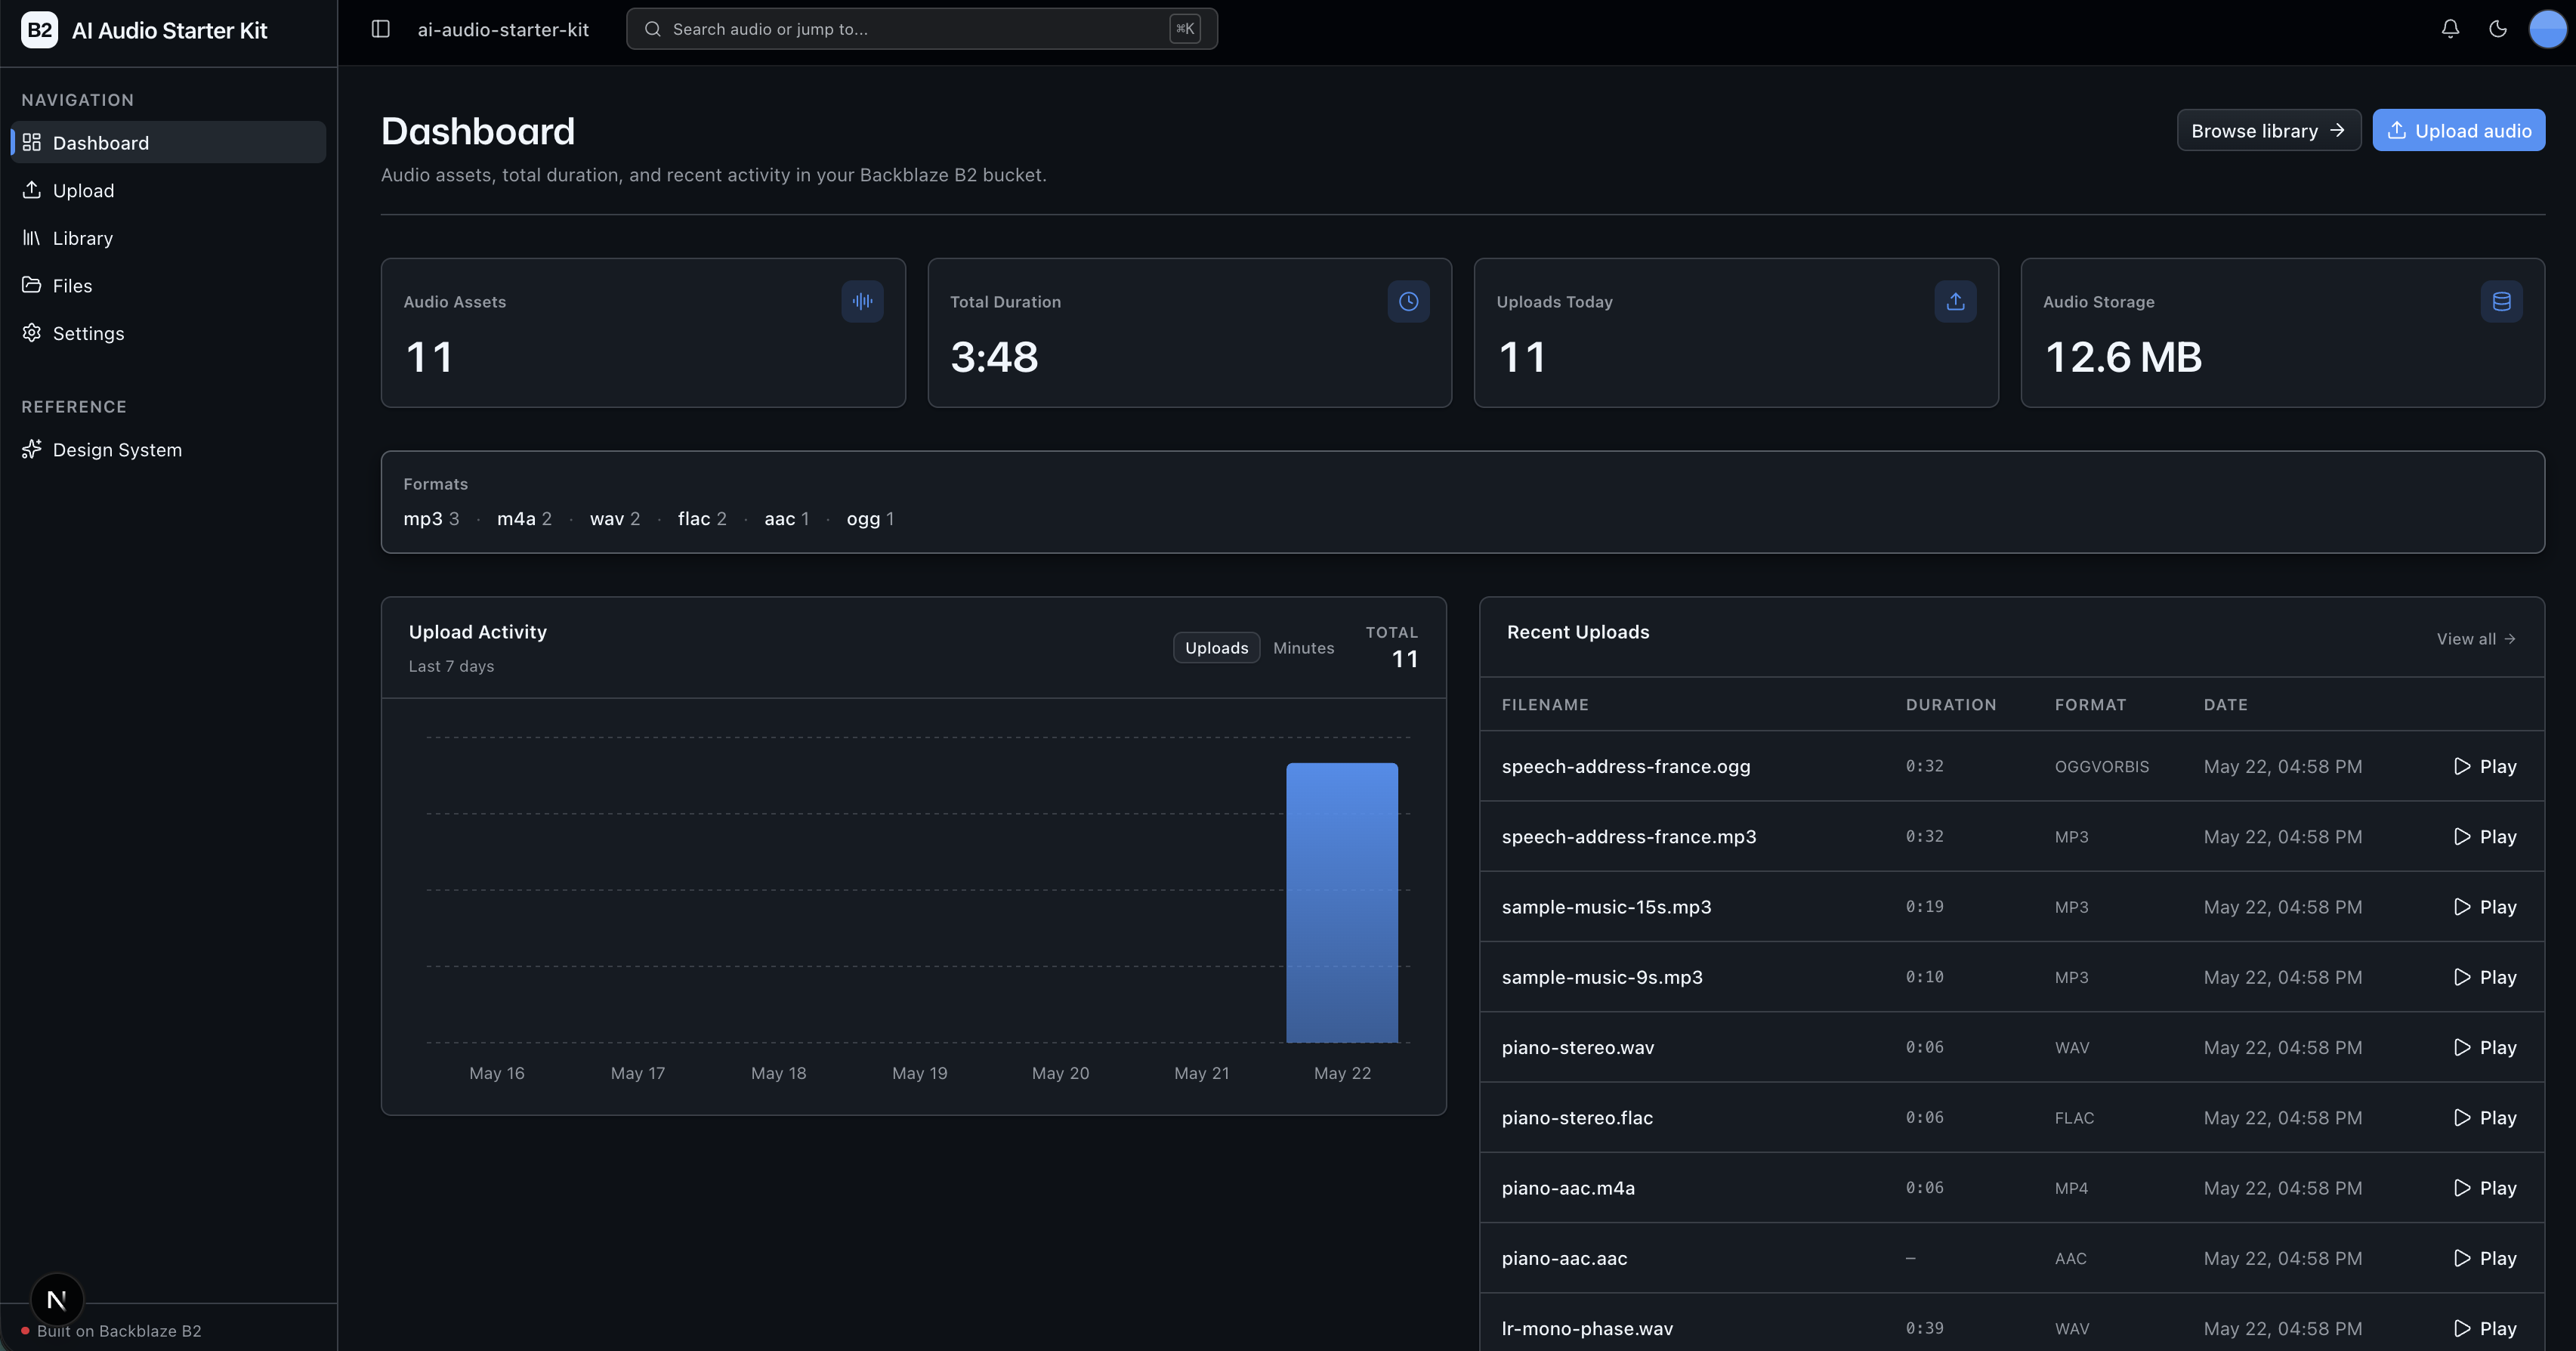
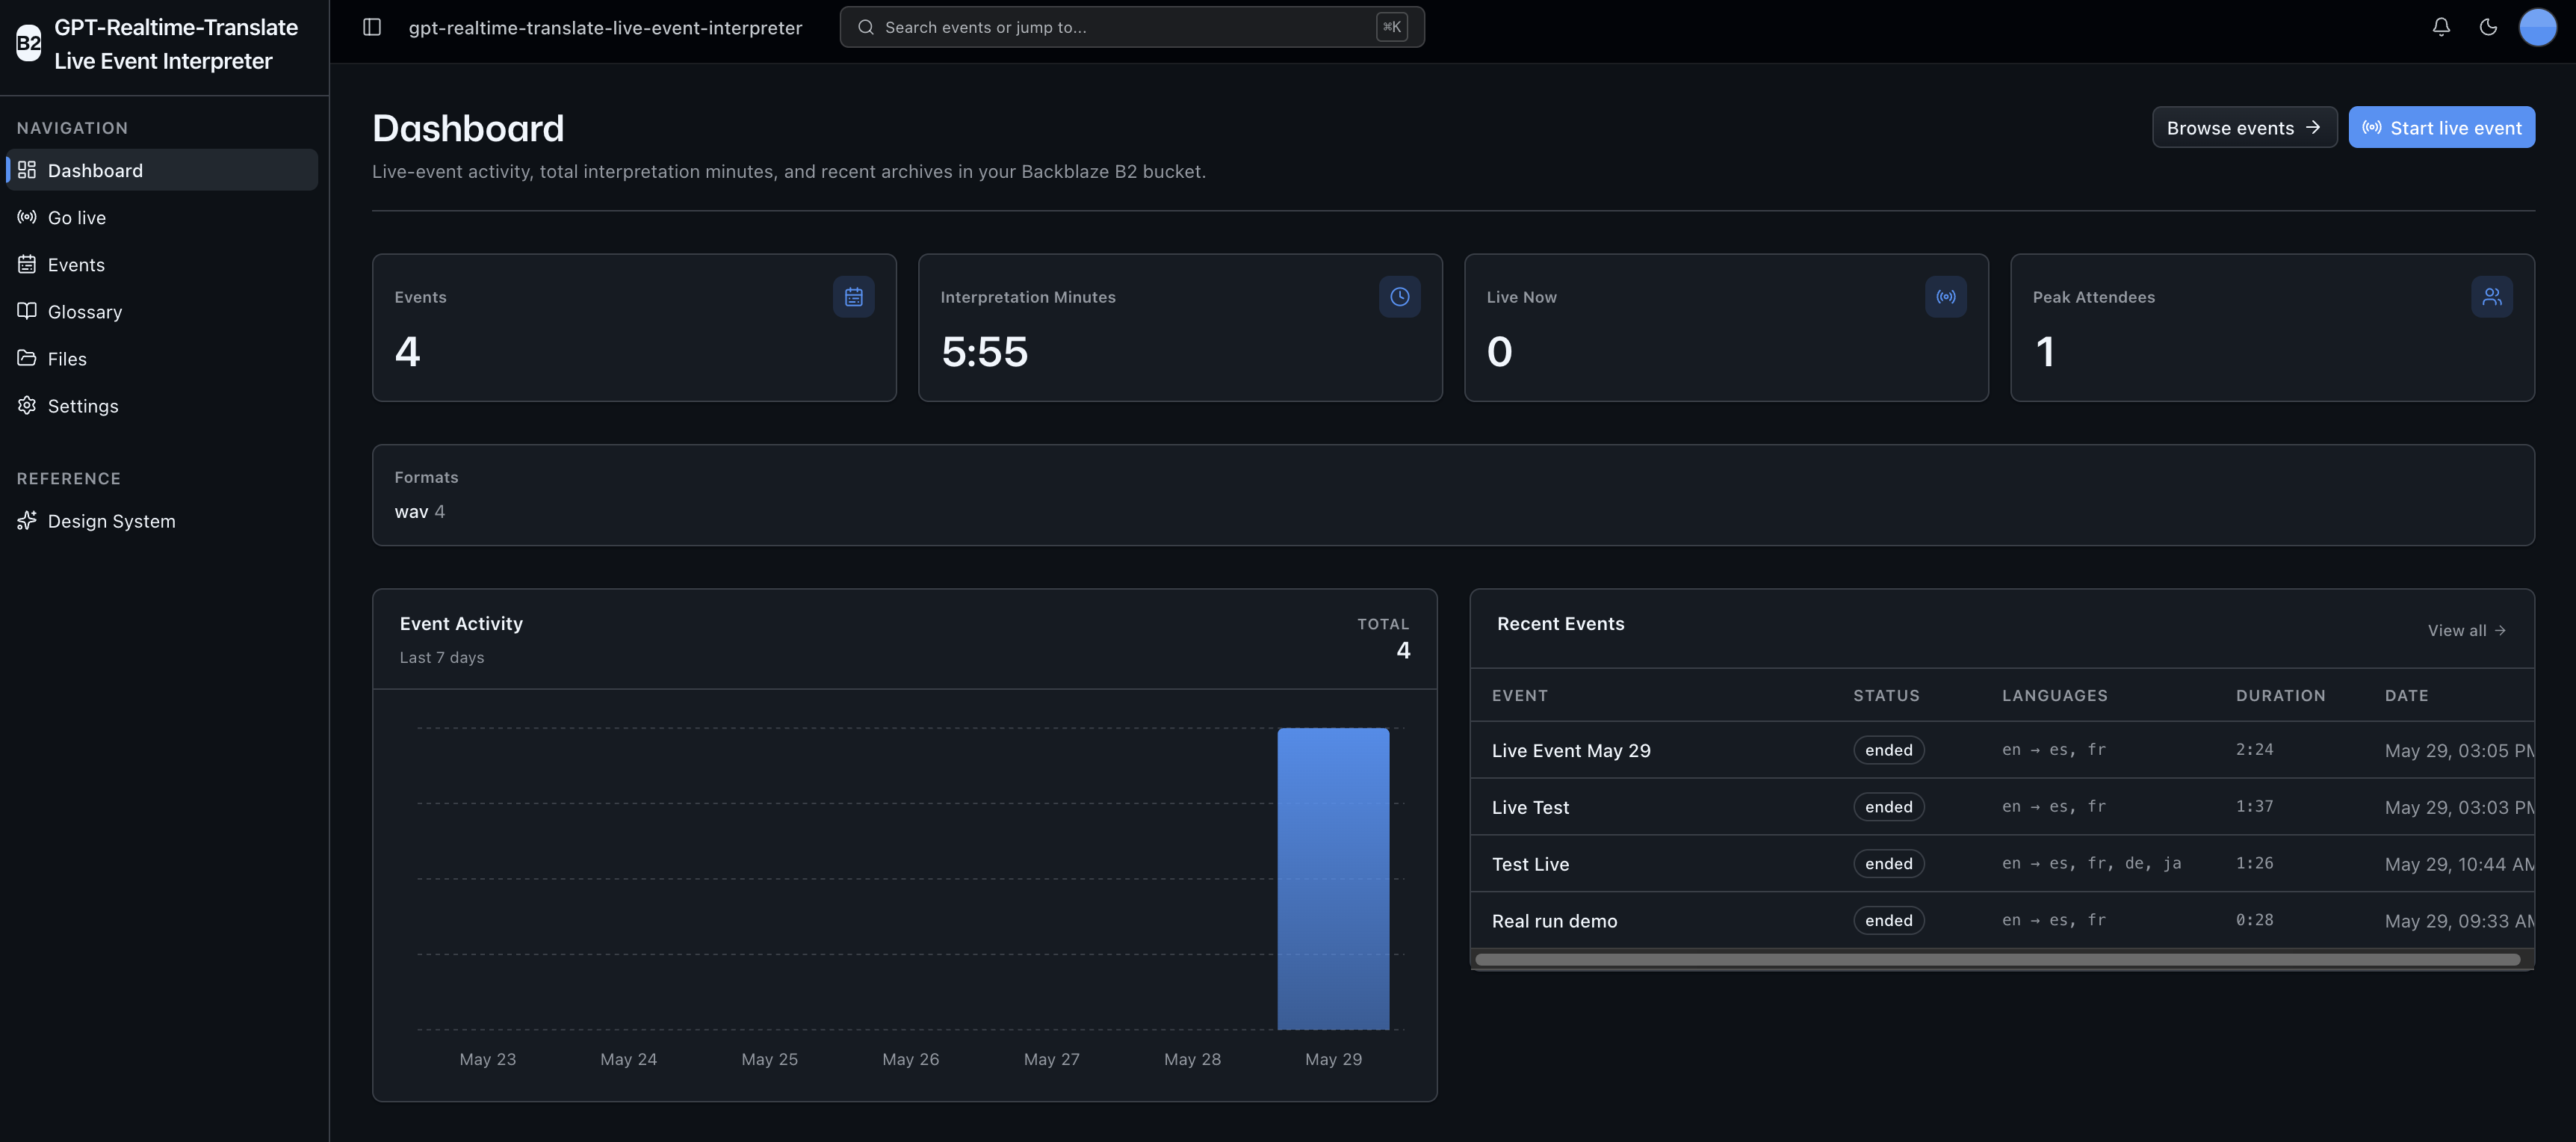
Add live-UI screenshots and refresh README showcase
Rename the captured screenshots into docs/images/ with descriptive
names (speaker-console, speaker-console-live, attendee-listen) and
refresh dashboard/events; wire them into the README 'What it looks
like' section with descriptive alt text.

diff --git a/README.md b/README.md
@@ -5,12 +5,12 @@ A real-time **live event interpreter** built on OpenAI's GPT-Realtime-Translate 
 
 This is the canonical "fan-out, archive everything" pattern: one source generates many derived artifacts, and object storage is the natural home for the result.
 
-**This is a scaffold.** The end-to-end live-translation feature is staged behind a typed adapter — the speaker / attendee WebSocket handlers exist, validate inputs, and close with a structured "not yet implemented" frame. The remaining wiring lands in a follow-up exec plan. Everything else (events explorer, archive view, glossary surface, dashboard, full-bucket explorer) is real today.
+**Live translation is implemented end to end.** With an `OPENAI_API_KEY` set, the speaker console captures the mic and the API bridges to one `gpt-realtime-translate` session per target language, streaming translated audio + captions to attendees; the event archives to B2 (source audio, per-language transcripts/captions) when it ends. Without a key the speaker socket closes with a structured `4001` frame and the rest of the app (events explorer, archive view, glossary, dashboard, full-bucket explorer) still works. A live run requires a real OpenAI key and network access.
 
 ## What you get out of the box
 
-- `/live` — speaker console (scaffold placeholder until OpenAI Realtime wiring lands)
-- `/live/[id]/listen` — attendee listen view (scaffold placeholder)
+- `/live` — speaker console: mic capture, go-live, live caption preview, attendee count, shareable listen link
+- `/live/[id]/listen` — attendee listen view: language picker, translated audio playback + live captions
 - `/events` — Events explorer grid scoped to the `events/` prefix in B2
 - `/events/[id]` — single-event detail view: source-audio playback, per-language transcript / VTT / SRT downloads, artifact listing
 - `/glossary` — Glossary management surface (reusable JSON glossaries attachable to events)
@@ -28,6 +28,18 @@ This is the canonical "fan-out, archive everything" pattern: one source generate
 **Events** — every event archived to B2 with status, language chips, attendee peak, and actions:
 
 ![Events view showing a grid of event cards with status badges, language chips, and listen / open / delete actions](./docs/images/events.png)
+
+**Speaker console** — set the event title, source and target languages, and the persist-audio toggle, then go live:
+
+![Speaker console setup form with event title, source language, target language checkboxes, persist-translated-audio toggle, and a Go live button](./docs/images/speaker-console.png)
+
+**Speaker console (live)** — running event with a live caption preview, attendee count, and shareable listen link:
+
+![Speaker console during a live event showing the live timer, attendee count, copyable attendee link, and a scrolling transcript with source lines and per-language translations](./docs/images/speaker-console-live.png)
+
+**Attendee listen view** — pick a target language and follow translated captions in real time:
+
+![Attendee listen view for an event with a language picker, live indicator, and a stream of translated Spanish captions](./docs/images/attendee-listen.png)
 
 ## Agent-First Architecture
 